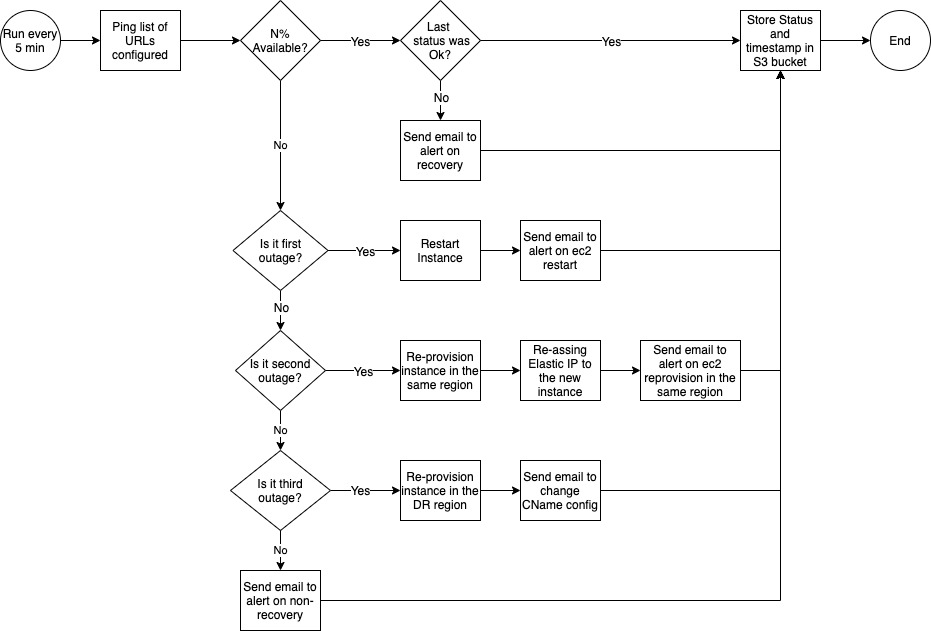
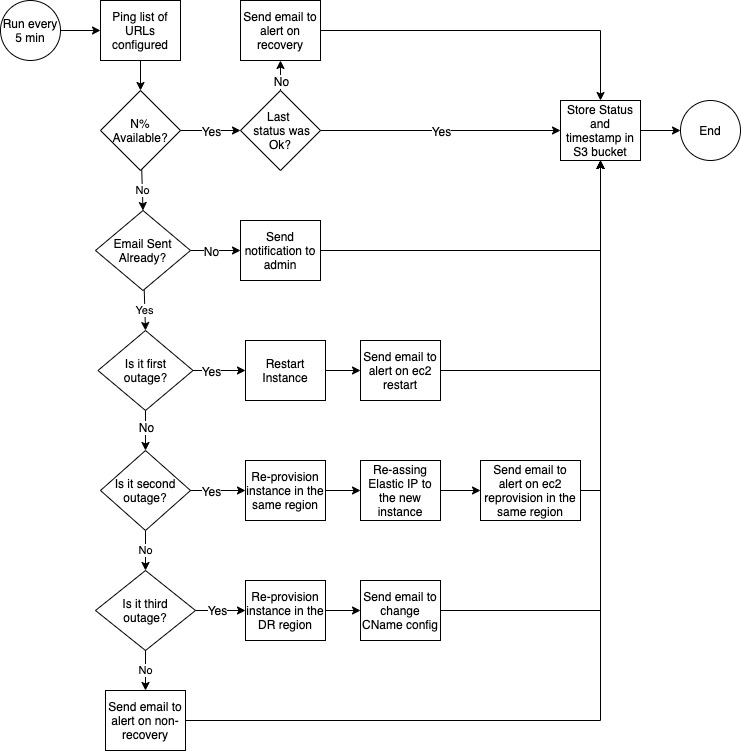
updating readme

Changed region(s): [[0.0, 0.0, 1.0, 1.0], [0.807, 0.7528, 0.8381, 0.7829], [0.807, 0.3914, 0.8381, 0.4216]]

diff --git a/readme.md b/readme.md
@@ -7,6 +7,7 @@
 ## Objectives
 
 * Monitor availability of web-sites hosted on a single EC2 instance
+* Before taking any recovery action send notification email and give admin personnel chance to respond
 * On first failure restart the instance and send notification email
 * On second failure re-provision the instance in the same region, send email notification, and re-assign Elastic IP
 * On third failure re-provision the instance in DR region and send notification email
@@ -15,7 +16,7 @@
 
 ## Scope
 
-* Record monitoring status to Aws S3 Bucket
+* Record monitoring status to a persistent back-end
 * Deliver functionality using a suitable service on Aws
 * Document deployment and testing process using markdown format
 * Walk through the implementation and setup
@@ -30,6 +31,19 @@
 * Snapshots are tagged and latest available will be used to re-provision the failed instance
 * In case snapshot is unavailable - re-provisioning process will fail
 * Non-recoverable errors will be written to log and will require human intervention
+
+## Tentative Architecture
+
+![](./docs/architecture.jpg)
+
+* Persistent Storage: DynamoDB in auto-scale mode @ ~$1.50/month
+* Why not S3: S3 does not support sorting and querying of documents on the server side
+* CloudWatch Synthetic for availability monitoring: 100 canary runs per month are free?
+* AWS lambda for processing DynamoDB updates: send email or take a recovery action, 1M executions/month is free
+* SES to send email notifications, 62,000 sent email/month is free
+* Route 53 could be used to chain CNAME's or Lambda function could update Revize DNS directly?
+* CloudWatch for logging
+
 
 ## Artifacts
 
